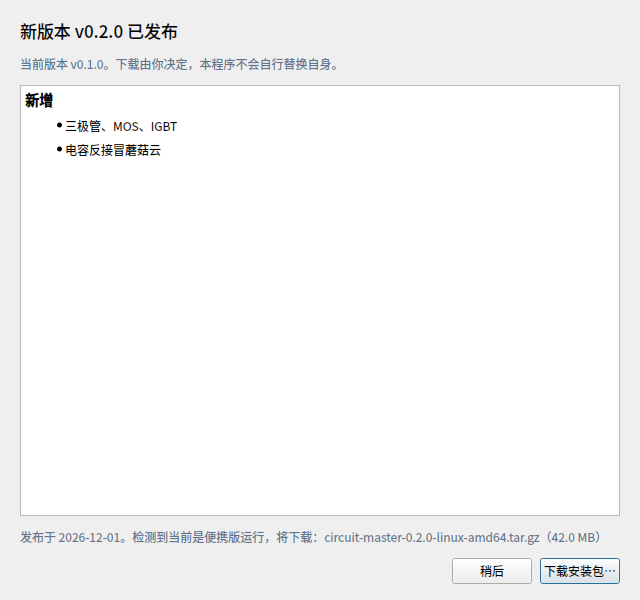
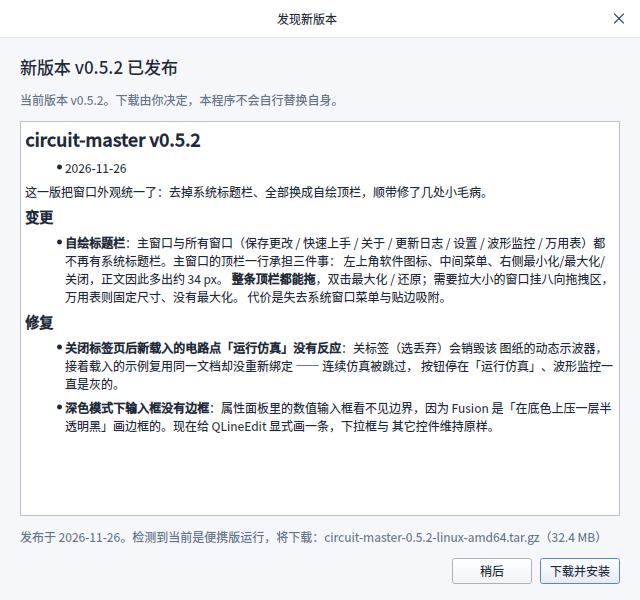
feat(ui): 「检查更新」对话框也用自绘顶栏，并更新两张截图
它是唯一还带系统标题栏的窗口。现在和保存更改 / 关于 / 更新日志一样走
makeFramelessShell()，标题居中 + 关闭按钮，尺寸固定为 640×600（正文照旧在
窗口内滚动）。

截图 update_dialog / update_dialog_portable 用构造好的 ReleaseInfo 重拍：
前者是系统安装（选 deb），后者把 CSM_INSTALL_KIND 设成 portable（选 tar.gz）。

更新日志记在「未发布 → 修复」，v0.5.2 那一节保持与已发布版本一致。

diff --git a/src/ui/UpdateDialog.cpp b/src/ui/UpdateDialog.cpp
@@ -1,6 +1,7 @@
 #include "ui/UpdateDialog.h"
 #include "core/Language.h"
 
+#include "ui/DialogFrame.h"
 #include "ui/Theme.h"
 
 #include "csm_version.h"
@@ -86,11 +87,11 @@ UpdateDialog::UpdateDialog(const ReleaseInfo& release, QWidget* parent)
     m_asset = UpdateChecker::pickAssetForHost(release);
     setWindowTitle(CSM_TR("New version available"));
     setModal(true);
-    setMinimumSize(620, 560);
 
-    auto* root = new QVBoxLayout(this);
-    root->setContentsMargins(20, 18, 20, 16);
-    root->setSpacing(12);
+    // 和其它窗口一样自绘顶栏；正文在浏览器里滚动，窗口尺寸固定
+    auto* root = makeFramelessShell(*this, CSM_TR("New version available"),
+                                    QMargins(20, 16, 20, 16), 12);
+    setFixedSize(640, 600);
 
     auto* heading = new QLabel(CSM_TR("Version %1 has been released").arg(release.tagName), this);
     heading->setStyleSheet(QStringLiteral("font-size: 17px; font-weight: 600;"));

diff --git a/CHANGELOG.md b/CHANGELOG.md
@@ -5,6 +5,13 @@
 版本号遵循[语义化版本](https://semver.org/lang/zh-CN/)。
 版本号的唯一来源是仓库根目录的 `VERSION` 文件（写法与 tag 一致，如 `v0.4.0`）。
 
+## [未发布]
+
+### 修复
+
+- **「检查更新」对话框也换成自绘顶栏**：之前它是唯一还带系统标题栏的窗口，
+  现在和其它窗口一致，尺寸固定为 640×600（正文照旧在窗口内滚动）。
+
 ## [v0.5.2] - 2026-11-26
 
 这一版把窗口外观统一了：去掉系统标题栏、全部换成自绘顶栏，顺带修了几处小毛病。

diff --git a/CHANGELOG.en.md b/CHANGELOG.en.md
@@ -6,6 +6,13 @@ numbering follows [Semantic Versioning](https://semver.org/).
 The single source of truth for the version is the `VERSION` file at the
 repository root (same form as the tag, e.g. `v0.4.0`).
 
+## [Unreleased]
+
+### Fixed
+
+- **The update dialog now uses the custom header too**: it was the last window with a
+  system title bar. It is a fixed 640×600 now, with the notes scrolling inside.
+
 ## [v0.5.2] - 2026-11-26
 
 Every window now draws its own title bar, plus a couple of small fixes.
